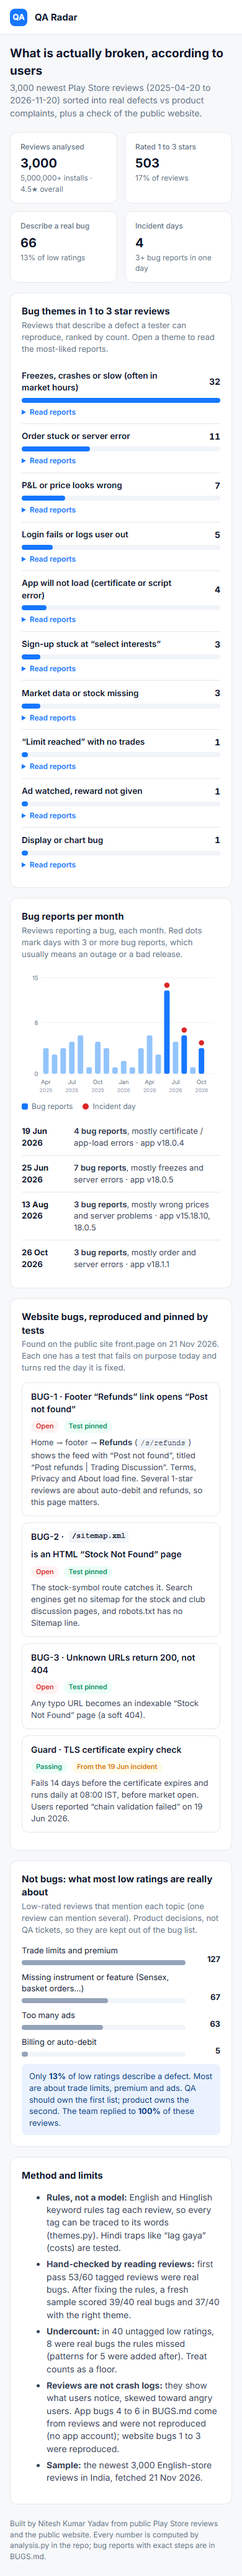
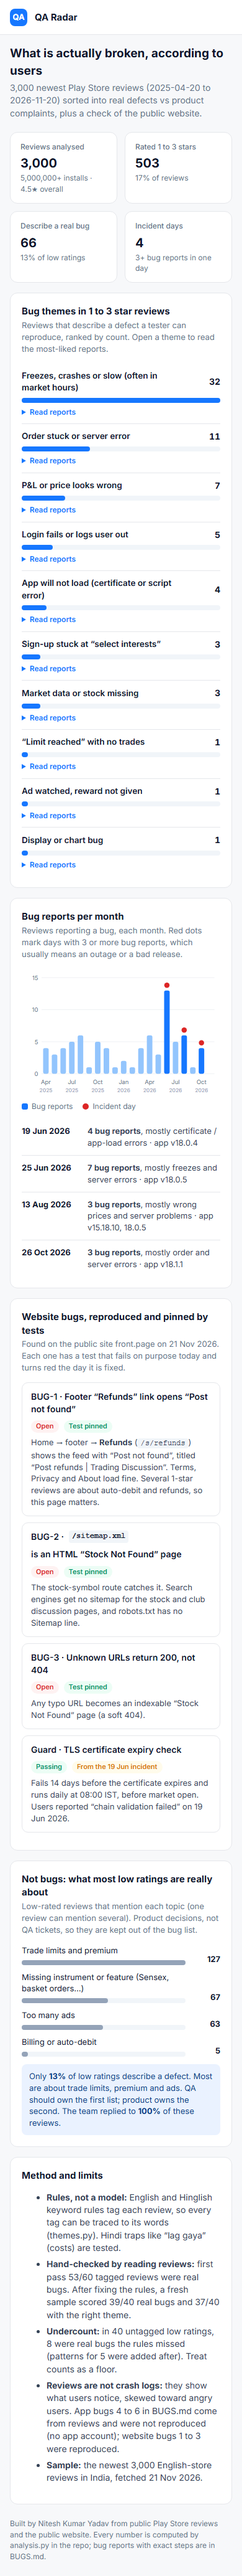
Dashboard: even y-axis ticks, one-line incident dates on mobile

Changed region(s): [[0.3077, 0.4365, 0.8615, 0.4989], [0.0923, 0.4365, 0.1538, 0.4989], [0.2154, 0.4365, 0.2769, 0.4677]]

diff --git a/demo/index.html b/demo/index.html
@@ -49,7 +49,7 @@ svg text{font-family:Inter,system-ui,sans-serif}
 .notes li{margin:6px 0;color:#334155}
 footer{color:var(--muted);font-size:12px;margin:22px 0 8px}
 @media (max-width:980px){nav{display:none}.wrap{background:none}.grid{grid-template-columns:1fr}.kpis{grid-template-columns:repeat(2,minmax(0,1fr))}}
-@media (max-width:520px){main{padding:16px}.top{padding:0 16px}.badges,.crumb{display:none}.kpi .v{font-size:20px}h1{font-size:19px}.inc .d{width:74px}}
+@media (max-width:520px){main{padding:16px}.top{padding:0 16px}.badges,.crumb{display:none}.kpi .v{font-size:20px}h1{font-size:19px}.inc .d{width:96px}}
 </style>
 </head>
 <body>
@@ -133,10 +133,10 @@ document.getElementById('issueList').innerHTML = bt.map(([k, c]) => `<div class=
 // chart
 (function () {
   const m = D.monthly, narrow = innerWidth < 520, W = narrow ? 340 : 480, H = 220, Lp = 34, R = 10, T = 16, B = 40;
-  const ymax = Math.max(...m.map(r => r.bug_reports)) + 2, bw = (W - Lp - R) / m.length;
+  const raw = Math.max(...m.map(r => r.bug_reports)) + 2, step = raw <= 10 ? 2 : 5, ymax = Math.ceil(raw / step) * step, bw = (W - Lp - R) / m.length;
   const Y = v => T + (1 - v / ymax) * (H - T - B);
   let s = `<svg viewBox="0 0 ${W} ${H}" width="100%" role="img" aria-label="Bug reports per month">`;
-  [0, Math.round(ymax / 2), ymax].forEach(v => s += `<line x1="${Lp}" x2="${W - R}" y1="${Y(v)}" y2="${Y(v)}" stroke="#eef0f3"/><text x="${Lp - 6}" y="${Y(v) + 4}" font-size="10" fill="#64748b" text-anchor="end">${v}</text>`);
+  Array.from({ length: ymax / step + 1 }, (_, i) => i * step).forEach(v => s += `<line x1="${Lp}" x2="${W - R}" y1="${Y(v)}" y2="${Y(v)}" stroke="#eef0f3"/><text x="${Lp - 6}" y="${Y(v) + 4}" font-size="10" fill="#64748b" text-anchor="end">${v}</text>`);
   const incMonths = new Set(D.incidents.map(i => i.day.slice(0, 7)));
   m.forEach((r, i) => {
     const x = Lp + i * bw + bw * 0.18, w = bw * 0.64;
